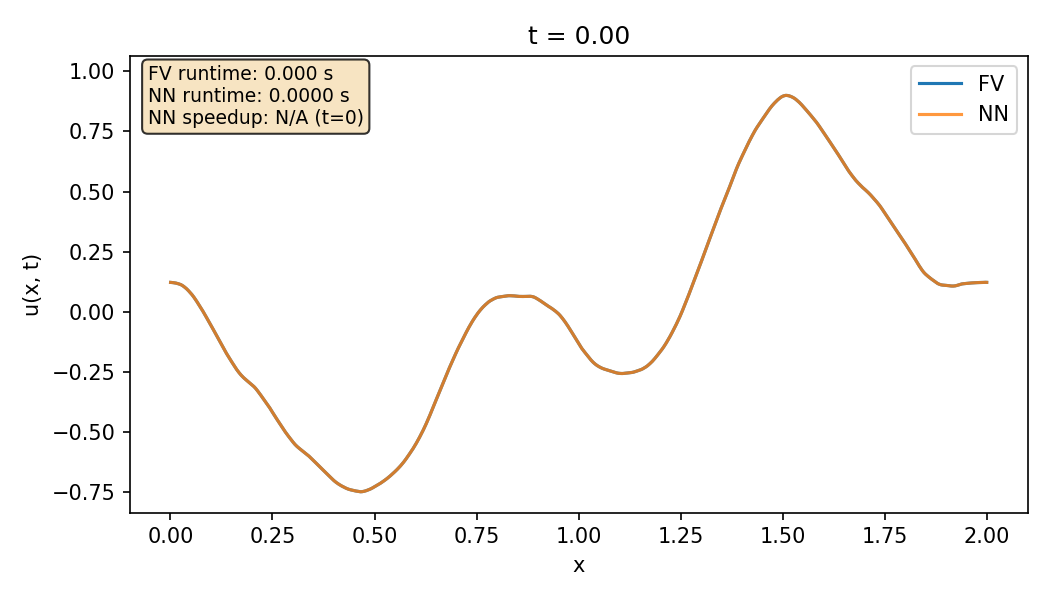
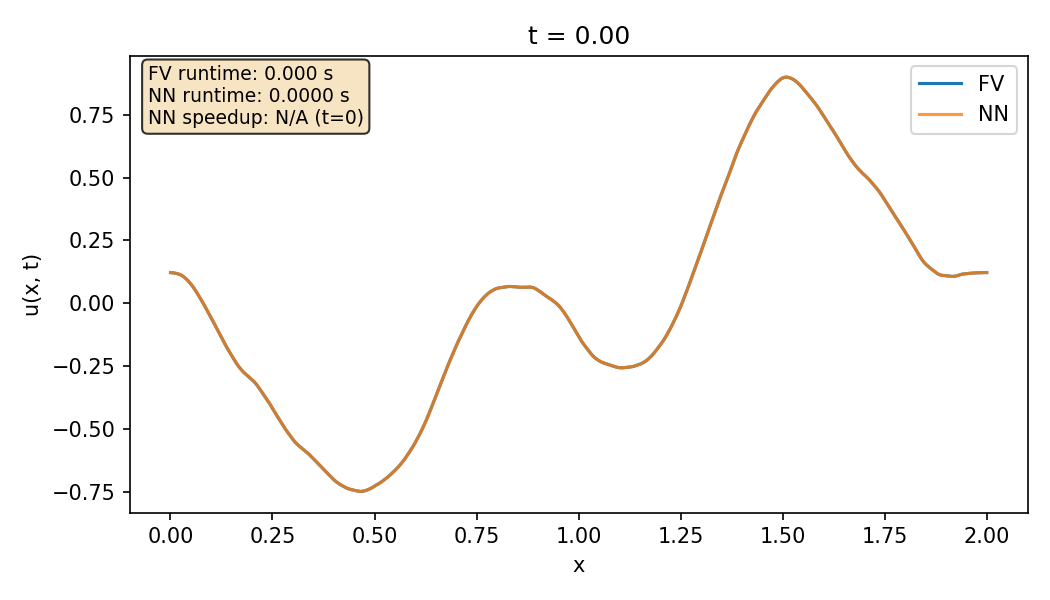
Fix compare bug, update colorbar, refresh pipeline results
- Fix burgers_1d compare: dt_nn was njp*dt instead of njp*TSCREEN*dt,
  causing FV/NN time mismatch and NN rollout collapse
- Use global symmetric ±vmax colorbar with RdBu_r for wave_2d_linear
  and wave_2d_nonlinear compare plots
- Add no-output-redirect rule to CLAUDE.md
- Rename test scripts: test_imex_correctness→test_wave2d_nonlinear,
  test_wave2d→vis_pde
- Refresh all figures and report.tex with latest pipeline run

diff --git a/compare.py b/compare.py
@@ -37,7 +37,7 @@ def _compare_burgers_1d(data_dir, out_dir):
     nx, dx, dt = cfg.nx, cfg.dx, cfg.dt
     njp, nst, nwd = cfg.njp, cfg.nst, cfg.nwd
     alpha, u_mean, nu = cfg.alpha, cfg.u_mean, cfg.nu
-    dt_nn = njp * dt
+    dt_nn = njp * cfg.TSCREEN * dt   # one NN step = njp saved frames, each frame = TSCREEN solver steps
     n_nn_steps = int(round(cfg.compare_t_end / dt_nn))
 
     u0, xc, A = setup_burger(nx, dx, dt, L, nu, alpha, u_mean, cfg.compare_seed)
@@ -78,7 +78,7 @@ def _compare_burgers_1d(data_dir, out_dir):
     fv_elapsed = nn_elapsed = 0.0
     for _ in tqdm(range(n_nn_steps), desc="burgers_1d rollout"):
         t0 = time.perf_counter()
-        for _ in range(njp):
+        for _ in range(njp * cfg.TSCREEN):
             u_fv = integrate_burger(u_fv, dt, dx, nu, A=A)
         fv_elapsed += time.perf_counter() - t0
         fv_list.append(u_fv.copy())
@@ -197,12 +197,10 @@ def _compare_wave_2d_linear(data_dir, out_dir):
     comp_names = ["u", "v"]
     clims = []
     for c_idx in range(2):
-        lo = min(np.array(spec_list if c_idx == 0 else spec_v_list).min(),
-                 np.array(nn_frames_u if c_idx == 0 else nn_frames_v).min())
-        hi = max(np.array(spec_list if c_idx == 0 else spec_v_list).max(),
-                 np.array(nn_frames_u if c_idx == 0 else nn_frames_v).max())
-        pad = 0.05 * (hi - lo or 1)
-        clims.append((lo - pad, hi + pad))
+        all_frames = spec_list if c_idx == 0 else spec_v_list
+        vmax = max(np.abs(f).max() for f in all_frames)
+        vmax = max(vmax, 1e-6)
+        clims.append((-vmax, vmax))
 
     os.makedirs(out_dir, exist_ok=True)
     dt_nn = steps_per_nn * cfg.dt
@@ -213,9 +211,9 @@ def _compare_wave_2d_linear(data_dir, out_dir):
         for c_idx in range(2):
             spec_f = spec_list[i] if c_idx == 0 else spec_v_list[i]
             nn_f = nn_frames_u[i] if c_idx == 0 else nn_frames_v[i]
-            pc0 = axes[0, c_idx].pcolormesh(xx, yy, spec_f.T, shading="auto")
+            pc0 = axes[0, c_idx].pcolormesh(xx, yy, spec_f.T, shading="auto", cmap="RdBu_r")
             axes[0, c_idx].set_title(f"Spectral {comp_names[c_idx]}")
-            pc1 = axes[1, c_idx].pcolormesh(xx, yy, nn_f.T, shading="auto")
+            pc1 = axes[1, c_idx].pcolormesh(xx, yy, nn_f.T, shading="auto", cmap="RdBu_r")
             axes[1, c_idx].set_title(f"NN {comp_names[c_idx]}")
             pc0.set_clim(clims[c_idx])
             pc1.set_clim(clims[c_idx])
@@ -310,12 +308,9 @@ def _compare_wave_2d_nonlinear(data_dir, out_dir, model=None):
     comp_names = ["h - h0", "qx", "qy"]
     clims = []
     for c in range(3):
-        lo = min(np.array([f[:, :, c].min() for f in spec_frames]).min(),
-                 np.array([f[:, :, c].min() for f in nn_frames]).min())
-        hi = max(np.array([f[:, :, c].max() for f in spec_frames]).max(),
-                 np.array([f[:, :, c].max() for f in nn_frames]).max())
-        pad = 0.05 * (hi - lo or 1)
-        clims.append((lo - pad, hi + pad))
+        vmax = max(np.abs(f[:, :, c]).max() for f in spec_frames)
+        vmax = max(vmax, 1e-6)
+        clims.append((-vmax, vmax))
 
     os.makedirs(out_dir, exist_ok=True)
     dt_nn = steps_per_nn * dt
@@ -324,9 +319,9 @@ def _compare_wave_2d_nonlinear(data_dir, out_dir, model=None):
         t_val = i * dt_nn
         fig, axes = plt.subplots(2, 3, figsize=(12, 8), constrained_layout=True)
         for c in range(3):
-            pc0 = axes[0, c].pcolormesh(xx, yy, spec_frames[i][:, :, c].T, shading="auto")
+            pc0 = axes[0, c].pcolormesh(xx, yy, spec_frames[i][:, :, c].T, shading="auto", cmap="RdBu_r")
             axes[0, c].set_title(f"Spectral {comp_names[c]}")
-            pc1 = axes[1, c].pcolormesh(xx, yy, nn_frames[i][:, :, c].T, shading="auto")
+            pc1 = axes[1, c].pcolormesh(xx, yy, nn_frames[i][:, :, c].T, shading="auto", cmap="RdBu_r")
             axes[1, c].set_title(f"NN {comp_names[c]}")
             pc0.set_clim(clims[c])
             pc1.set_clim(clims[c])

diff --git a/pde/burgers_1d.py b/pde/burgers_1d.py
@@ -90,37 +90,27 @@ def setup_burger(nx, dx, dt, L, nu, alpha, u_mean, rng_seed):
     return u0, xc, A
 
 
-def run_reference_solver():
+def burgers_1d_main(nx, dx, dt, L, nu, alpha, u_mean, TF, TSCREEN, rng_seed, verbose=False):
+    """运行 Burgers 求解器，返回 (t_history, u_history, xc)。
+    u_history shape: (nx, n_frames)，每 TSCREEN 步保存一帧。
     """
-    Run the full FV solver with parameters from config.burgers_1d_config.
-    Returns:
-        xc : cell centers in [0, L]
-        u0 : initial condition
-        u  : final solution after t_end
-    """
-    from config import burgers_1d_config as cfg
-    L = cfg.L
-    nx, dx, dt, nt = cfg.nx, cfg.dx, cfg.dt, cfg.nt
-    alpha, u_mean, nu = cfg.alpha, cfg.u_mean, cfg.nu
-
-    rng = np.random.default_rng(42)
-    xc = np.linspace(0.0, L, nx, endpoint=False) + dx / 2.0
-    u0 = gen_dist_1d(nx, alpha, rng) + u_mean
-
-    u = u0.copy()
-    A = build_diffusion_matrix(nx, dt, dx, nu)
-    _t0 = _time.perf_counter()
-    print_every = max(1, nt // 20)
-    for n in range(nt):
-        u = integrate_burger(u, dt, dx, nu, A=A)
-        if (n + 1) % print_every == 0 or n + 1 == nt:
-            elapsed = _time.perf_counter() - _t0
-            t_phys = (n + 1) * dt
-            eta = elapsed / (n + 1) * (nt - n - 1)
-            print(f"  [burgers_1d] step {n+1:5d}/{nt}  t={t_phys:.4f}  "
-                  f"elapsed={elapsed:.1f}s  ETA={eta:.1f}s  |u|_max={np.max(np.abs(u)):.4f}", flush=True)
-
-    return xc, u0, u
+    u, xc, A = setup_burger(nx, dx, dt, L, nu, alpha, u_mean, rng_seed)
+    n_steps = int(TF / dt)
+    n_frames = n_steps // TSCREEN + 1
+    t_history = np.zeros(n_frames)
+    u_history = np.zeros((nx, n_frames))
+    u_history[:, 0] = u
+    t0 = _time.perf_counter()
+    for frame in range(1, n_frames):
+        for _ in range(TSCREEN):
+            u = integrate_burger(u, dt, dx, nu, A)
+        u_history[:, frame] = u
+        t_history[frame] = frame * TSCREEN * dt
+        if verbose:
+            elapsed = _time.perf_counter() - t0
+            print(f"  [burgers] frame {frame:4d}/{n_frames-1}  t={t_history[frame]:.4f}  "
+                  f"elapsed={elapsed:.1f}s  |u|_max={np.max(np.abs(u)):.4f}", flush=True)
+    return t_history, u_history, xc
 
 
 if __name__ == "__main__":
@@ -130,7 +120,11 @@ if __name__ == "__main__":
     if _root not in sys.path:
         sys.path.insert(0, _root)
     from config import burgers_1d_config as cfg
-    xc, u0, u = run_reference_solver()
-    print(f"nx = {cfg.nx}, nt = {cfg.nt}")
-    print(f"u0 mean = {u0.mean():.6f}, u mean = {u.mean():.6f}")
+    TF = cfg.nt * cfg.dt
+    t_hist, u_hist, xc = burgers_1d_main(
+        cfg.nx, cfg.dx, cfg.dt, cfg.L, cfg.nu, cfg.alpha, cfg.u_mean,
+        TF=TF, TSCREEN=cfg.njp, rng_seed=42, verbose=True,
+    )
+    print(f"nx={cfg.nx}  n_frames={u_hist.shape[1]}  t_end={t_hist[-1]:.4f}")
+    print(f"u0 mean={u_hist[:, 0].mean():.6f}  u_final mean={u_hist[:, -1].mean():.6f}")
 

diff --git a/latex/report.tex b/latex/report.tex
@@ -98,14 +98,14 @@ The goal is to learn a local map on a small spatial element or patch from data p
     $g$, $h_0$ & 9.8, 1.0 \\
     Time integrator & IMEX (Strang splitting) \\
     Time step $\Delta t$ & $0.5\min(\Delta x,\Delta y)$ \\
-    Steps per saved frame $T_{\mathrm{screen}}$ & 4 \\
-    Patch half-width $n_{\mathrm{st}}$ & 16 \\
+    Steps per saved frame $T_{\mathrm{screen}}$ & 10 \\
+    Patch half-width $n_{\mathrm{st}}$ & 32 \\
     Interior width $n_{\mathrm{wd}}$ & 32 \\
     Viscosity $\nu_h$ & 0 \\
     Nudging coefficient & 1.0 \\
     Batch size & 100 \\
-    Warmup time & 6.0 \\
-    Compare $T_F$ & 3.0 \\
+    Warmup time & 4.0 \\
+    Compare $T_F$ & 4.0 \\
     Compare frames & 8 \\
     Compare IC & random \\
     Training samples & 5000 \\
@@ -144,7 +144,7 @@ Figure~\ref{fig:training} shows the train and test loss versus epoch for the thr
 \end{figure}
 
 \subsection{1D Burgers: FV vs. NN}
-Comparison at 6 output times over $t\in[0,2]$ with \texttt{compare\_t\_end=2.0}. Runtime for this run: FV total $4.166$\,s, NN total $0.3310$\,s, speedup $12.59\times$.
+Comparison at 6 output times over $t\in[0,2]$ with \texttt{compare\_t\_end=2.0}. Runtime for this run: FV total $4.081$\,s, NN total $0.3124$\,s, speedup $13.1\times$.
 
 \begin{figure}[H]
   \centering
@@ -163,7 +163,7 @@ Comparison at 6 output times over $t\in[0,2]$ with \texttt{compare\_t\_end=2.0}.
 \end{figure}
 
 \subsection{2D linear wave: Spectral vs. NN}
-Comparison at 6 aligned frames with \texttt{compare\_TF=1.0} and \texttt{compare\_ic=ring}. Runtime for this run: spectral $3.620$\,s, NN $0.0975$\,s, speedup $37.13\times$.
+Comparison at 6 aligned frames with \texttt{compare\_TF=2.0} and \texttt{compare\_ic=ring}. Runtime for this run: spectral $6.509$\,s, NN $0.1712$\,s, speedup $38.0\times$.
 
 \begin{figure}[H]
   \centering
@@ -182,7 +182,7 @@ Comparison at 6 aligned frames with \texttt{compare\_TF=1.0} and \texttt{compare
 \end{figure}
 
 \subsection{2D nonlinear shallow water: Spectral vs. NN}
-Comparison at 8 aligned frames for $(h-h_0,q_x,q_y)$ with \texttt{compare\_TF=3.0} and \texttt{compare\_ic=random}. Both rollouts start after warmup time $T=6.0$. Final rollout metrics for this run: mean L1 error $0.026660$, max-frame L1 error $0.052709$, spectral runtime $108.784$\,s, NN runtime $11.1522$\,s, speedup $9.76\times$.
+Comparison at 8 aligned frames for $(h-h_0,q_x,q_y)$ with \texttt{compare\_TF=4.0} and \texttt{compare\_ic=random}. Both rollouts start after warmup time $T=4.0$. Final rollout metrics for this run: mean L1 error $0.019689$, max-frame L1 error $0.035157$, spectral runtime $151.348$\,s, NN runtime $14.2391$\,s, speedup $10.6\times$.
 
 \begin{figure}[H]
   \centering

diff --git a/pde/test/vis_pde.py b/pde/test/vis_pde.py
@@ -1,9 +1,10 @@
-"""Test wave2d_main (linear) and wave2d_spectral (nonlinear), save gifs to pde/test/.
+"""可视化所有 PDE 求解器，保存 GIF 到 pde/test/。
 
 Usage:
-  python pde/test/test_wave2d.py             # both
-  python pde/test/test_wave2d.py linear      # linear only
-  python pde/test/test_wave2d.py nonlinear   # nonlinear only
+  python pde/test/vis_pde.py                  # all
+  python pde/test/vis_pde.py burgers          # burgers_1d only
+  python pde/test/vis_pde.py linear           # wave_2d_linear only
+  python pde/test/vis_pde.py nonlinear        # wave_2d_nonlinear only
 """
 import numpy as np
 import matplotlib.pyplot as plt
@@ -13,8 +14,30 @@ sys.path.insert(0, os.path.join(os.path.dirname(__file__), "../.."))
 
 HERE = os.path.dirname(__file__)
 args = sys.argv[1:]
+run_burgers   = not args or "burgers"   in args
 run_linear    = not args or "linear"    in args
 run_nonlinear = not args or "nonlinear" in args
+
+
+def save_gif_1d(u_history, t_history, xc, name):
+    """Save GIF for 1D field: u_history shape (nx, n_frames)."""
+    fig, ax = plt.subplots(figsize=(7, 4))
+    line, = ax.plot(xc, u_history[:, 0])
+    ax.set_xlim(xc[0], xc[-1])
+    ymax = np.max(np.abs(u_history)) or 1.0
+    ax.set_ylim(-ymax * 1.1, ymax * 1.1)
+    title = ax.set_title(f"t = {t_history[0]:.3f}")
+
+    def update(frame):
+        line.set_ydata(u_history[:, frame])
+        title.set_text(f"t = {t_history[frame]:.3f}")
+        return line, title
+
+    ani = animation.FuncAnimation(fig, update, frames=u_history.shape[1], interval=50, blit=True)
+    out = os.path.join(HERE, name)
+    ani.save(out, writer="pillow", fps=20)
+    plt.close()
+    print(f"Saved: {out}")
 
 
 def save_gif_multi(U_history, t_history, Lx, Ly, var_names, name):
@@ -73,6 +96,18 @@ def save_gif(u_history, t_history, Lx, Ly, name):
     plt.close()
     print(f"Saved: {out}")
 
+
+if run_burgers:
+    from pde.burgers_1d import burgers_1d_main
+    import config.burgers_1d_config as bcfg
+
+    print(f"[burgers] nx={bcfg.nx}  dt={bcfg.dt:.5f}  TF={bcfg.compare_t_end}")
+    t_history, u_history, xc = burgers_1d_main(
+        bcfg.nx, bcfg.dx, bcfg.dt, bcfg.L, bcfg.nu, bcfg.alpha, bcfg.u_mean,
+        TF=bcfg.compare_t_end, TSCREEN=bcfg.TSCREEN, rng_seed=bcfg.compare_seed, verbose=True,
+    )
+    print(f"[burgers] n_frames={u_history.shape[1]}  t_end={t_history[-1]:.4f}")
+    save_gif_1d(u_history, t_history, xc, "vis_burgers_1d.gif")
 
 if run_linear:
     from pde.wave_2d_linear import wave2d_main

diff --git a/gen_data.py b/gen_data.py
@@ -15,28 +15,22 @@ def _burgers_1d_single_trajectory(args):
     """Top-level for multiprocessing pickle. args = (seed, per_traj). Returns (inputs_list, outputs_list)."""
     seed, per_traj = args
     import config.burgers_1d_config as cfg
-    from pde.burgers_1d import gen_dist_1d, build_diffusion_matrix, integrate_burger
+    from pde.burgers_1d import burgers_1d_main
 
+    TF = cfg.nt * cfg.dt
+    t_hist, u_history, xc = burgers_1d_main(
+        cfg.nx, cfg.dx, cfg.dt, cfg.L, cfg.nu, cfg.alpha, cfg.u_mean,
+        TF=TF, TSCREEN=cfg.TSCREEN, rng_seed=seed,
+    )
+    # u_history: (nx, n_frames)，相邻帧间距 = TSCREEN 步
+    n_frames = u_history.shape[1]
     rng = np.random.default_rng(seed)
-    nx, nt = cfg.nx, cfg.nt
-    njp, nst, nwd = cfg.njp, cfg.nst, cfg.nwd
-
-    u0 = gen_dist_1d(nx, cfg.alpha, rng) + cfg.u_mean
-    u_history = np.zeros((nx, nt + 1), dtype=float)
-    u_history[:, 0] = u0
-    A = build_diffusion_matrix(nx, cfg.dt, cfg.dx, cfg.nu)
-    u = u0.copy()
-    for n in range(nt):
-        u = integrate_burger(u, cfg.dt, cfg.dx, cfg.nu, A=A)
-        u_history[:, n + 1] = u
-
-    i0_pool = np.random.randint(0, nx - 2 * nst - nwd + 1, size=per_traj)
-    j0_pool = np.random.randint(0, nt - njp + 1, size=per_traj)
     inputs_list, outputs_list = [], []
-    for k in range(per_traj):
-        i0, j0 = i0_pool[k], j0_pool[k]
-        inputs_list.append(u_history[i0 : i0 + 2 * nst + nwd, j0])
-        outputs_list.append(u_history[i0 + nst : i0 + nst + nwd, j0 + njp])
+    for _ in range(per_traj):
+        i0 = rng.integers(0, cfg.nx - 2 * cfg.nst - cfg.nwd + 1)
+        j0 = rng.integers(0, n_frames - cfg.njp)
+        inputs_list.append(u_history[i0 : i0 + 2 * cfg.nst + cfg.nwd, j0])
+        outputs_list.append(u_history[i0 + cfg.nst : i0 + cfg.nst + cfg.nwd, j0 + cfg.njp])
     return inputs_list, outputs_list
 
 

diff --git a/config/wave_2d_nonlinear_config.py b/config/wave_2d_nonlinear_config.py
@@ -16,7 +16,7 @@ nudging_coeff = 1.0  # h nudging toward h0 (0 = disabled)
 integrator = "imex"
 
 # Time (solver: dt = 0.5*min(dx,dy)/c, frames every TSCREEN steps)
-TF = 6.0
+TF = 10.0
 dt_internal = 0.5 * min(dx, dy) / c if integrator == "rk4" else 0.5 * min(dx, dy)
 TSCREEN = round(10 * c) if integrator == "rk4" else 10  # dt_samp ≈ 10 * 0.5*min(dx,dy)
 nu_h = 0.0
@@ -48,10 +48,10 @@ smooth_weight = [1e-2, 0.0, 0.0]      # per-channel [h-h0, qx, qy]
 smooth_mode = "absolute"   # "absolute" | "relative"
 param_ratio   = [10.0, 1.0, 1.0]     # h 通道数据损失×10
 
-warmup_T = 6.0   # frames before this time are excluded from training
+warmup_T = 4.0   # frames before this time are excluded from training
 
 # Compare (reference vs NN rollout)
-compare_TF = 3.0
+compare_TF = 4.0
 compare_ic = "random"
 compare_seed = 42
 sample_seed = 123

diff --git a/config/burgers_1d_config.py b/config/burgers_1d_config.py
@@ -12,10 +12,13 @@ dx = L / nx
 t_end = 4.0
 dt = CFL * dx / umax
 nt = int(round(t_end / dt))
-# NN prediction window
-njp = 100
-nst = int(np.floor(njp * CFL)) + 1
+# Frames: save every TSCREEN solver steps
+TSCREEN = 50
+dt_samp = TSCREEN * dt
+# NN prediction window: one NN step = njp saved frames
+njp = 2
 nwd = 100
+nst = int(np.floor(njp * dt_samp / dx)) + 1
 # Initial condition
 alpha = 2.5
 u_mean = 0.0

diff --git a/config/wave_2d_linear_config.py b/config/wave_2d_linear_config.py
@@ -35,7 +35,7 @@ activation = "linear"  # relu|tanh|gelu|linear
 lr_schedule = [(1000, 1e-3), (2000, 1e-4), (2500, 1e-5)]
 
 # Compare (reference vs NN rollout)
-compare_TF = 1.0
+compare_TF = 2.0
 compare_ic = "ring"
 compare_seed = 42
 sample_seed = 123

diff --git a/CLAUDE.md b/CLAUDE.md
@@ -42,6 +42,7 @@
 
 ## Bash 命令规范
 - 不要在 `cp`、`ls` 等命令末尾追加无意义确认输出
+- 不要把程序输出重定向到日志文件（`> file.log`、`2>&1` 等），让输出直接显示在屏幕上
 
 ## Config 规则
 - 所有参数必须从 `config/` 读取，不允许在脚本里写死（hardcode）数值。
